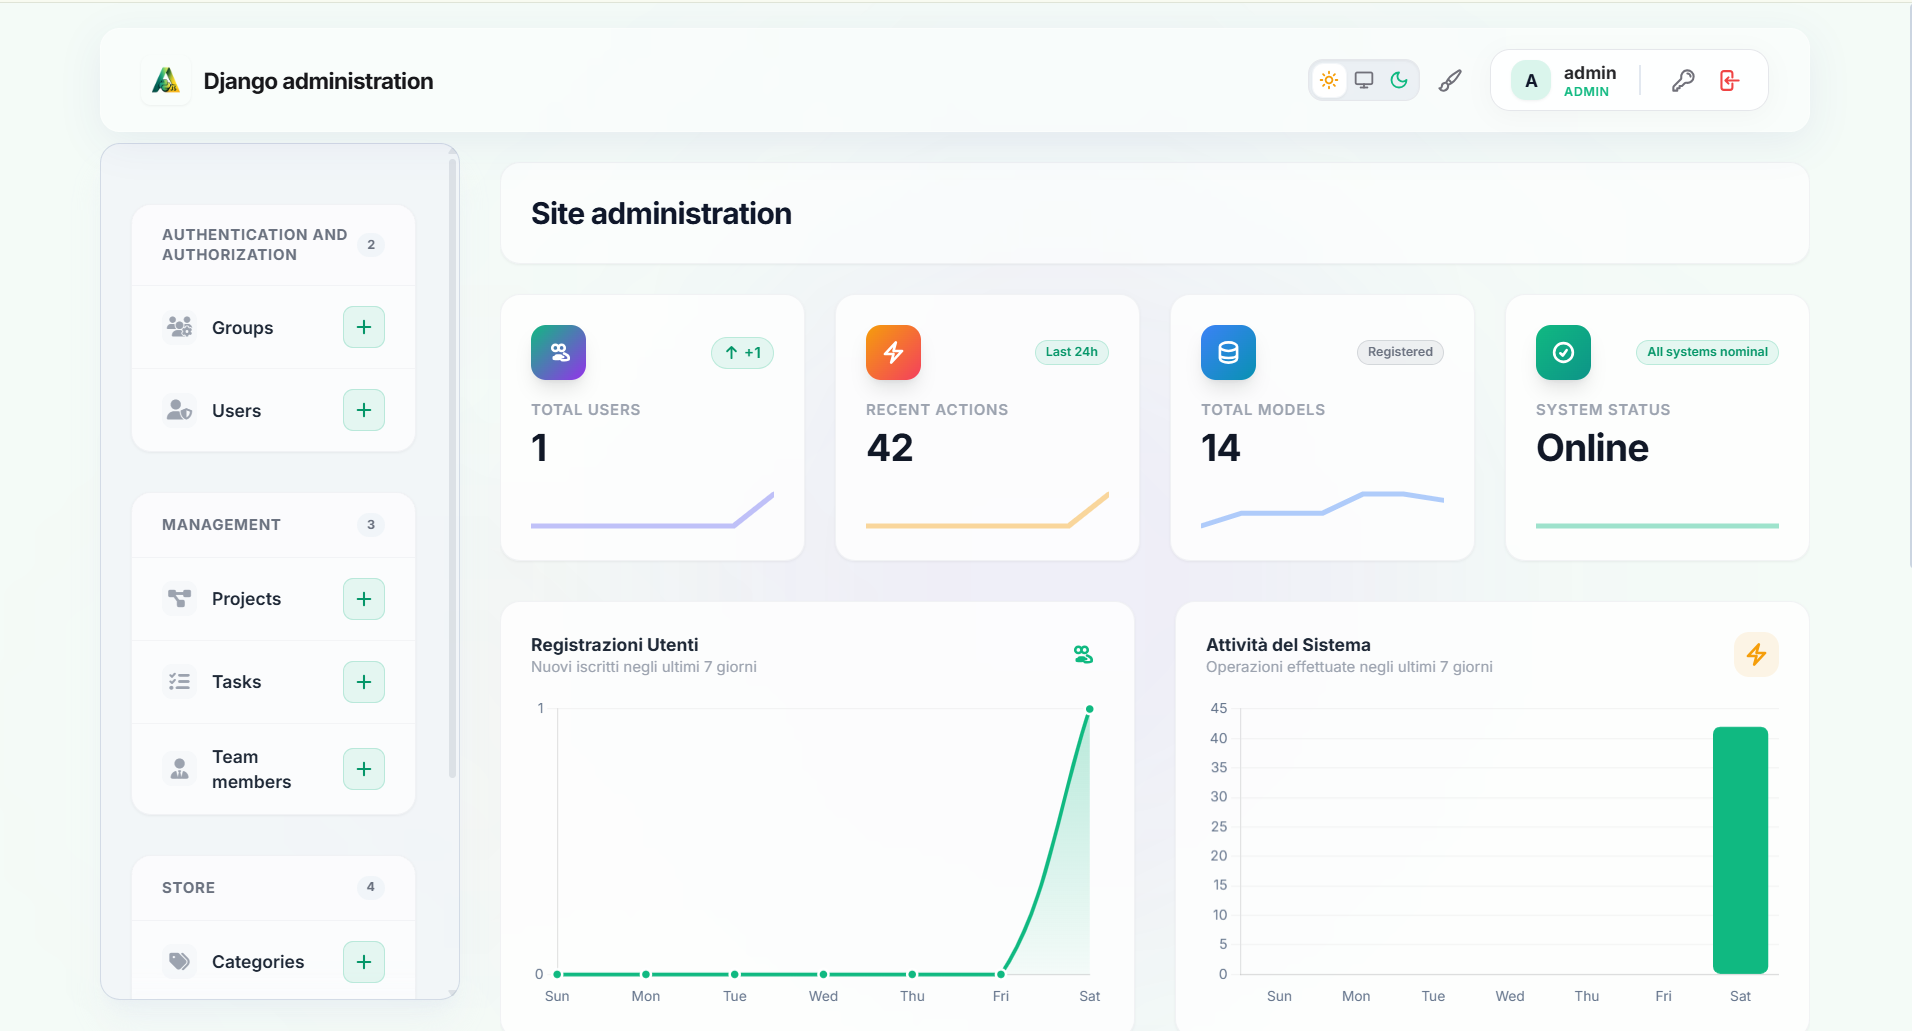
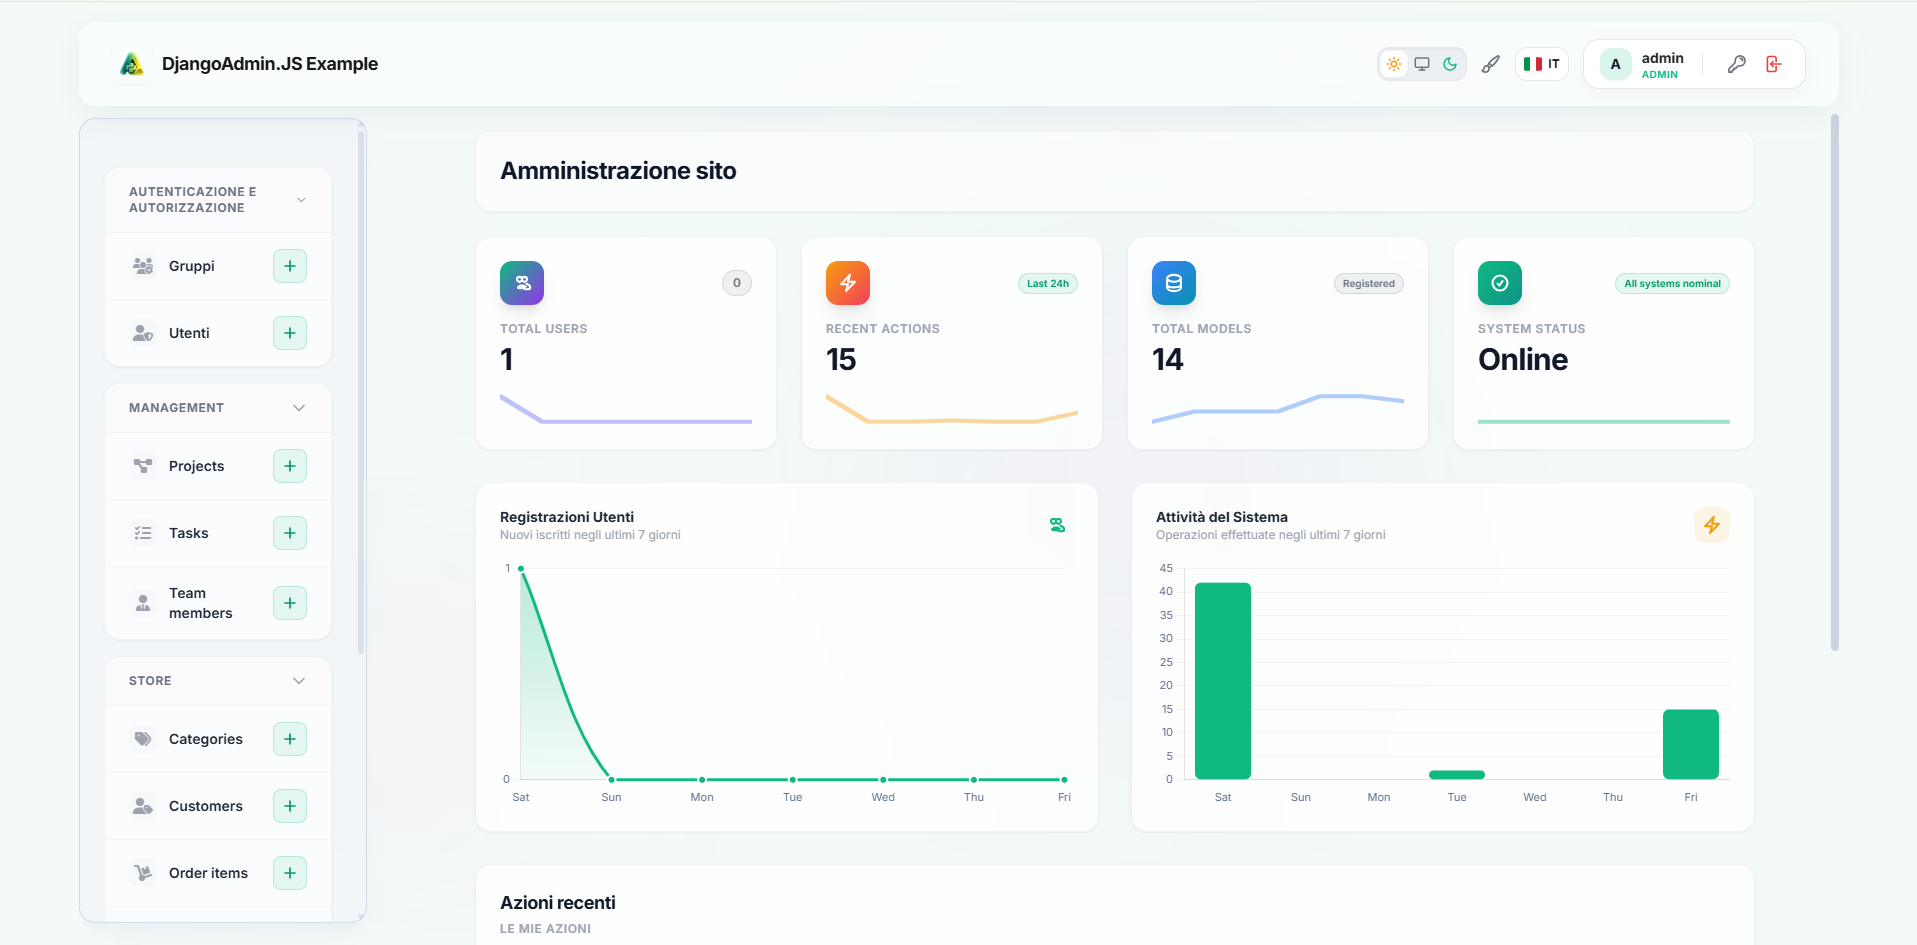
docs: add inline forms tab and update showcase screenshots

diff --git a/docs/index.html b/docs/index.html
@@ -240,6 +240,9 @@
                         <button onclick="switchShowcase('detail', this)" class="showcase-tab px-4 py-2 text-xs sm:text-sm font-semibold rounded-lg transition-all text-slate-600 hover:text-slate-900">
                             Forms & Toasts
                         </button>
+                        <button onclick="switchShowcase('inline', this)" class="showcase-tab px-4 py-2 text-xs sm:text-sm font-semibold rounded-lg transition-all text-slate-600 hover:text-slate-900">
+                            Inline Forms
+                        </button>
                     </div>
 
                     <!-- Showcase Image Container -->
@@ -275,6 +278,8 @@
                         img.src = 'assets/admin_delete_modal.png';
                     } else if (view === 'detail') {
                         img.src = 'assets/admin_detail_toast.png';
+                    } else if (view === 'inline') {
+                        img.src = 'assets/admin_tabular_inline.png';
                     }
                     img.style.opacity = '1';
                 }, 150);